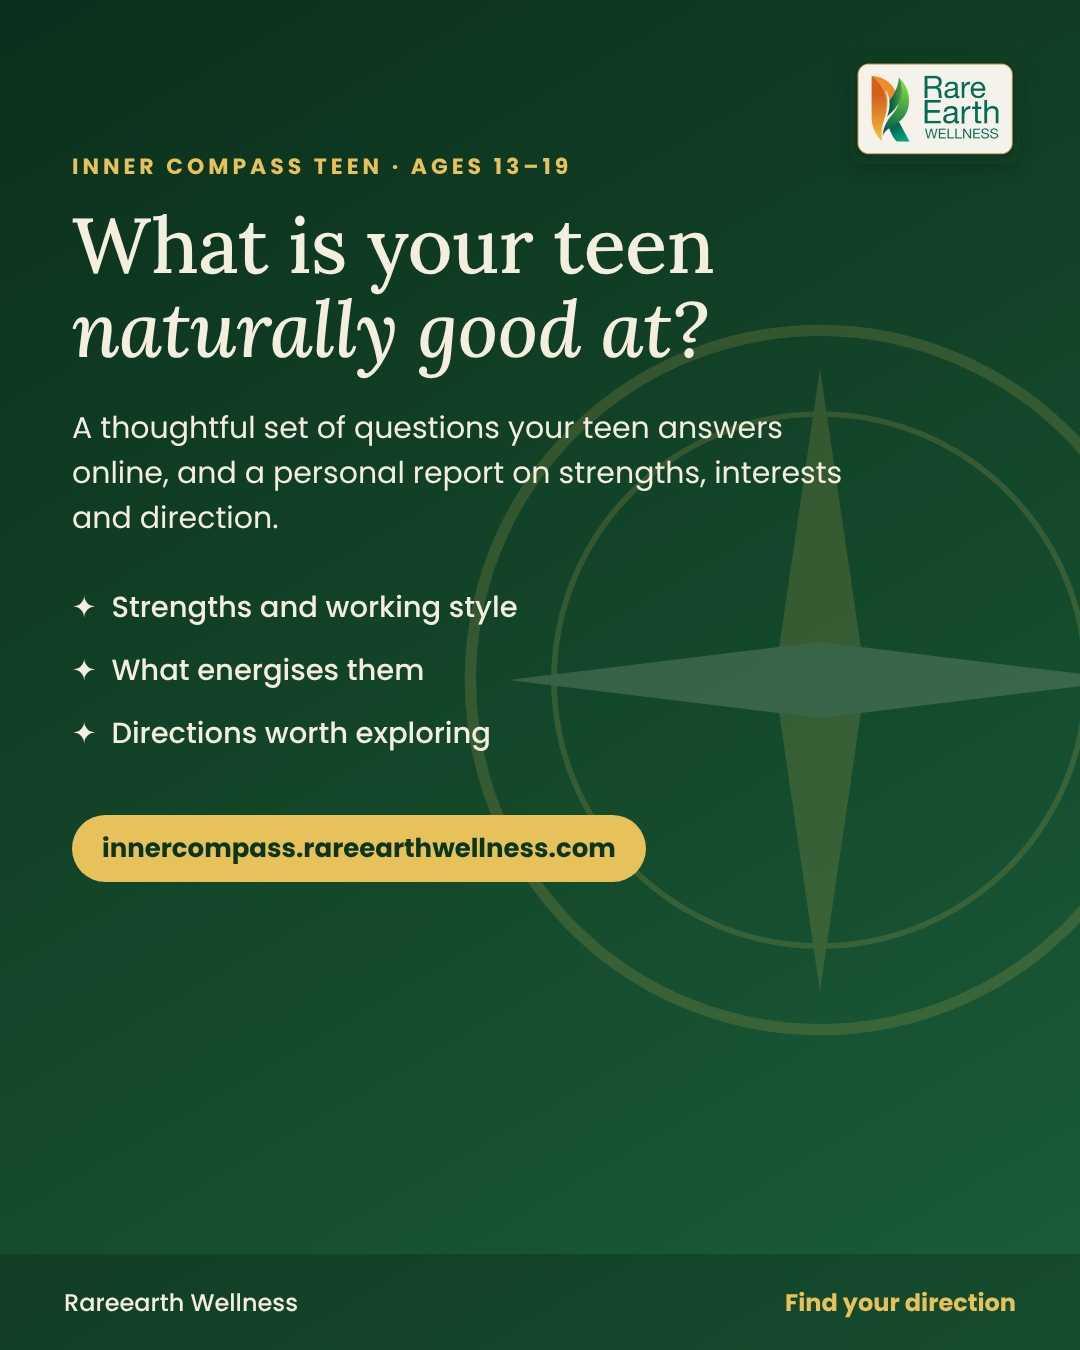
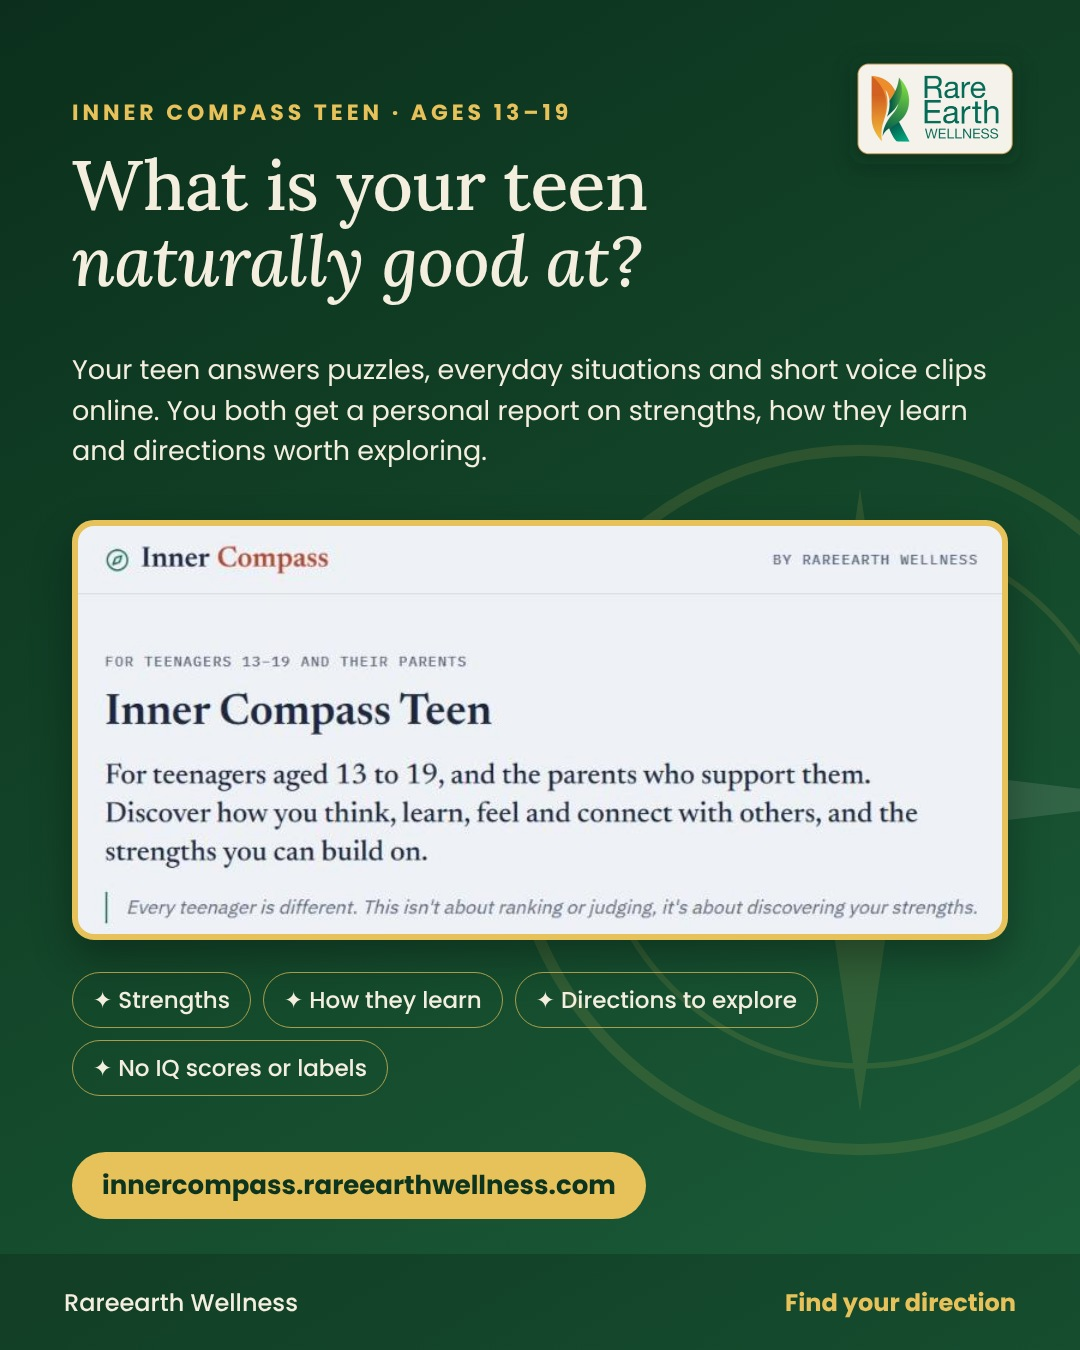
E v2 review (temporary)
Claude-Session: https://claude.ai/code/session_016rkx1DK1G2d91WsEwkoYA4

diff --git a/tmpxfer/review-E.html b/tmpxfer/review-E.html
@@ -1,0 +1,5 @@
+<!doctype html><html><head><meta charset="utf-8"><title>Review: E Inner Compass image</title><style>body{margin:0;background:#1d2a20;font-family:system-ui;color:#f4eedf;padding:24px}h1{font-weight:500;margin:0 0 6px}p{margin:0 0 20px;color:#cfe0d2}.row{display:flex;gap:24px;align-items:flex-start;flex-wrap:wrap}.row div{font-size:14px;color:#cfe0d2}.row img{display:block;border-radius:10px;margin-top:6px}</style></head><body>
+<h1>8 of 8 · E · Inner Compass image (website visits)</h1>
+<p>Same picture in two shapes: feed (4:5) and Stories/Reels (9:16). Now shows the real Inner Compass page.</p>
+<div class="row"><div>Feed 4:5<img src="ad-E-4x5.jpg?v=5" style="height:620px"></div><div>Stories 9:16<img src="ad-E-9x16.jpg?v=5" style="height:620px"></div></div>
+</body></html>
